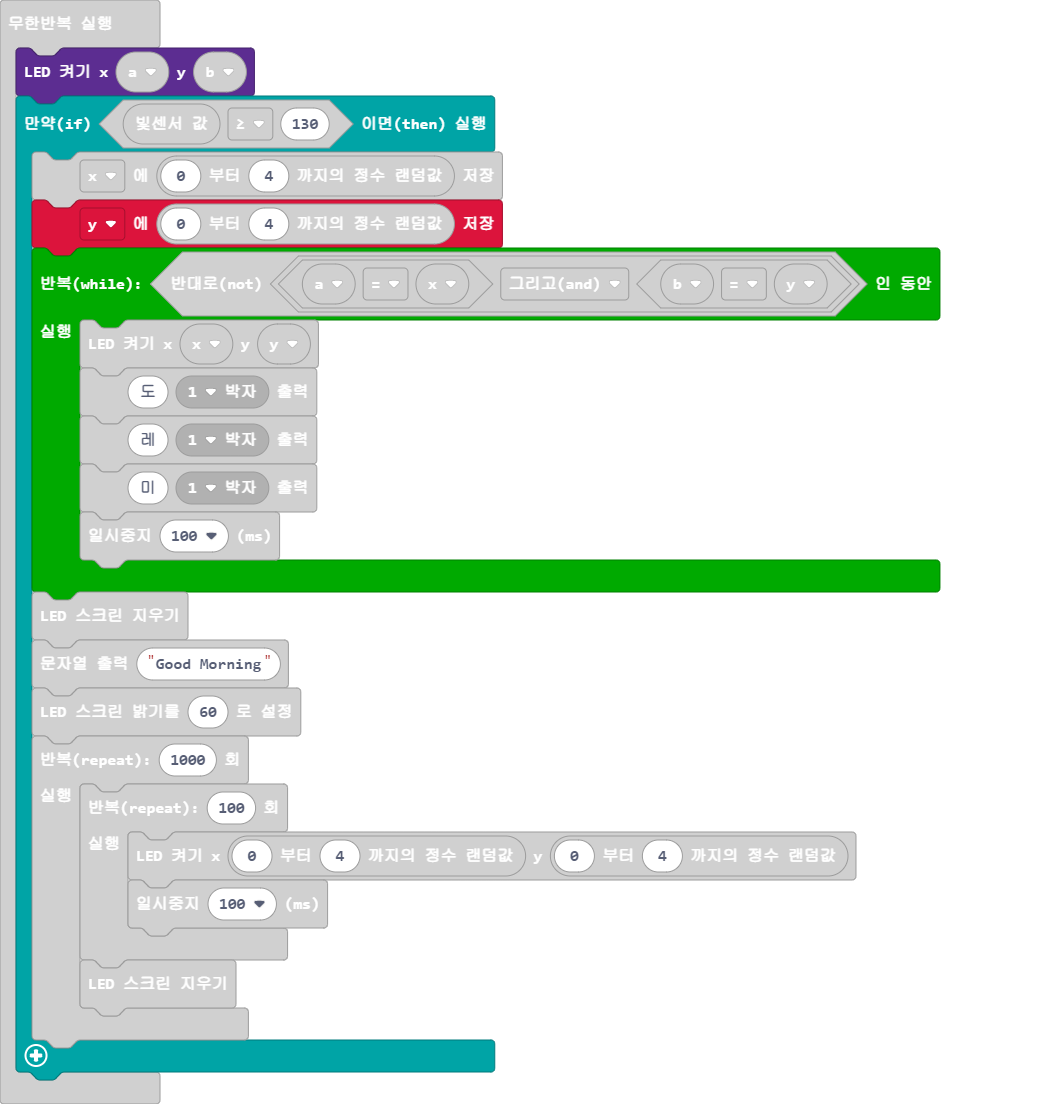
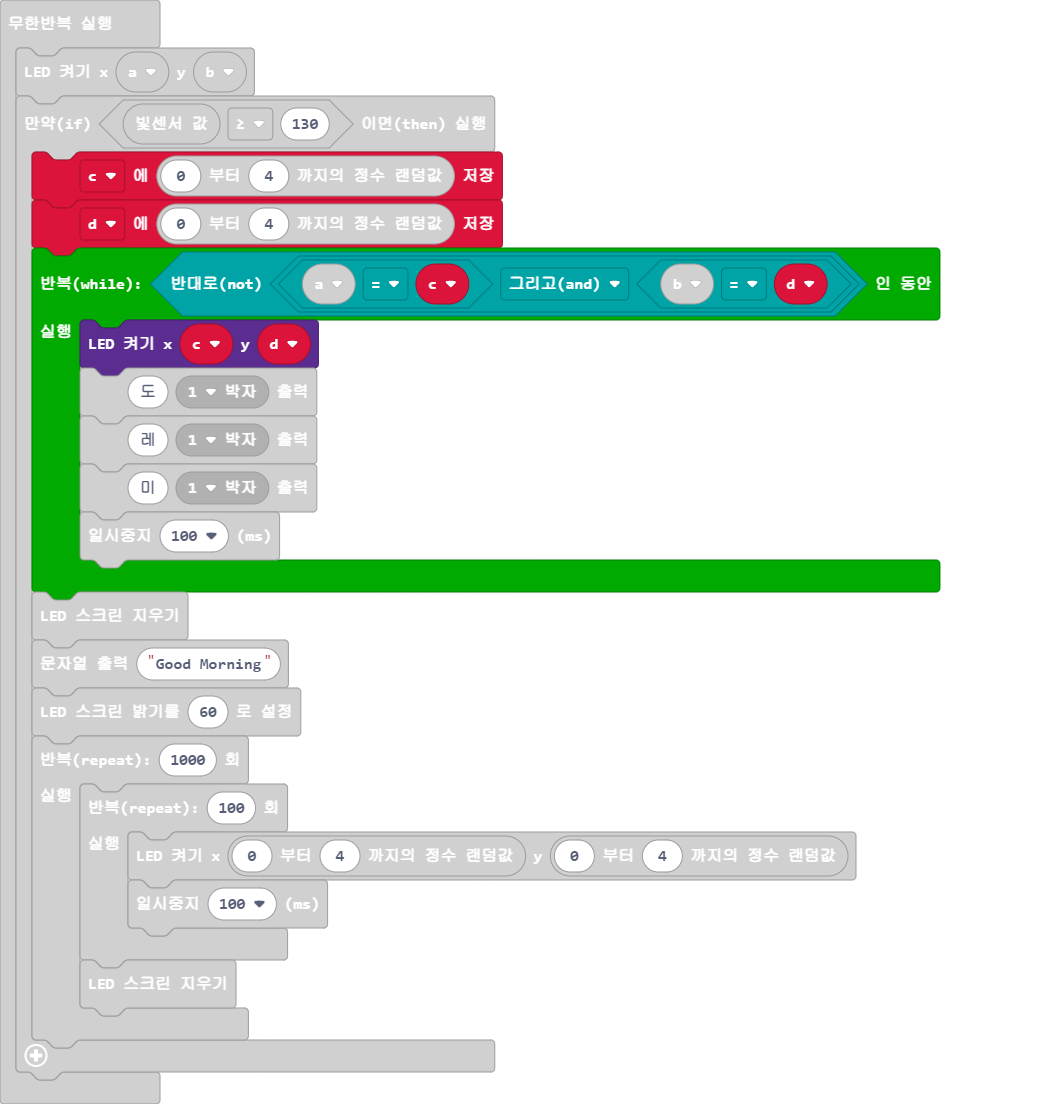
main.blocks, main.ts 업데이트하기

Changed region(s): [[0.0, 0.0308, 0.4962, 0.9855], [0.062, 0.2156, 0.8064, 0.3388]]

diff --git a/main.ts b/main.ts
@@ -52,8 +52,8 @@ input.onButtonPressed(Button.B, function () {
         led.plot(a, b)
     }
 })
-let y = 0
-let x = 0
+let d = 0
+let c = 0
 let b = 0
 let a = 0
 led.setBrightness(255)
@@ -93,10 +93,10 @@ led.plot(a, b)
 basic.forever(function () {
     led.plot(a, b)
     if (input.lightLevel() >= 130) {
-        x = randint(0, 4)
-        y = randint(0, 4)
-        while (!(a == x && b == y)) {
-            led.plot(x, y)
+        c = randint(0, 4)
+        d = randint(0, 4)
+        while (!(a == c && b == d)) {
+            led.plot(c, d)
             music.playTone(262, music.beat(BeatFraction.Whole))
             music.playTone(294, music.beat(BeatFraction.Whole))
             music.playTone(330, music.beat(BeatFraction.Whole))
